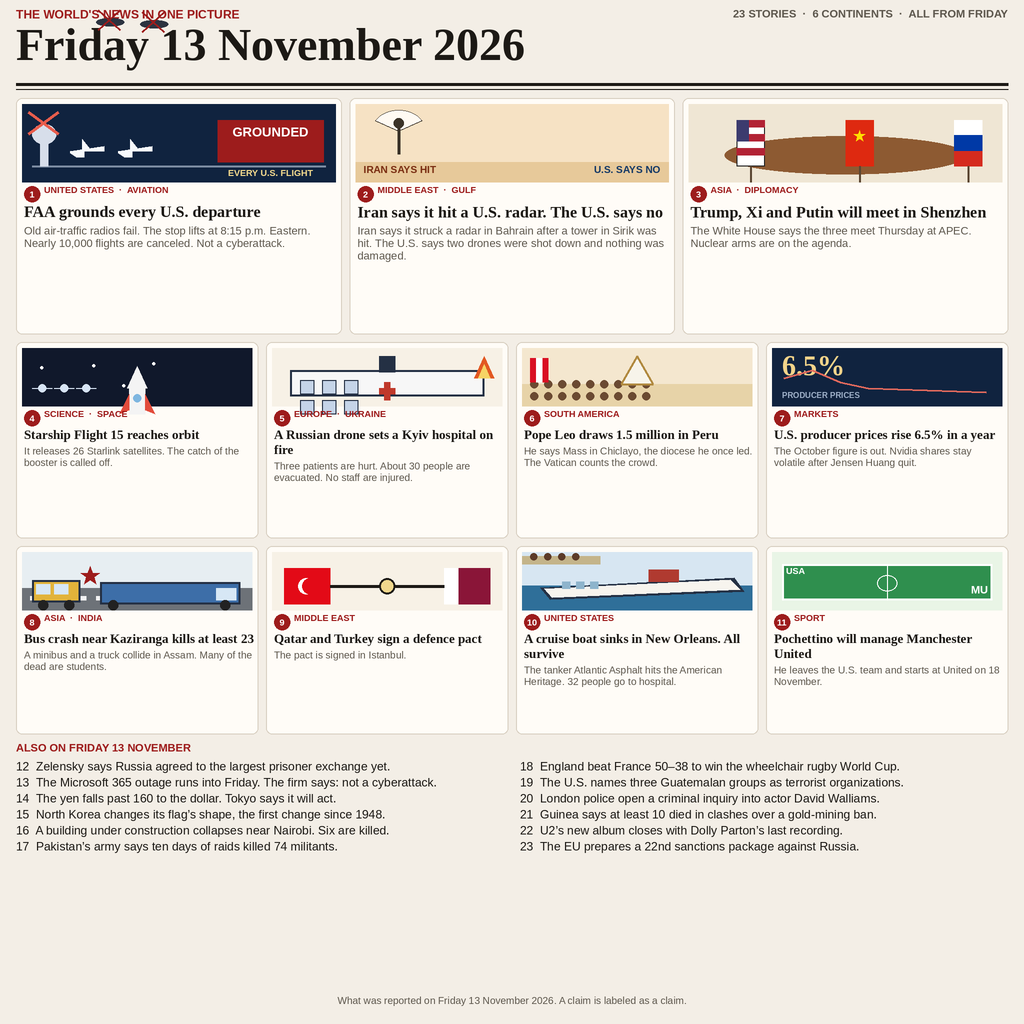
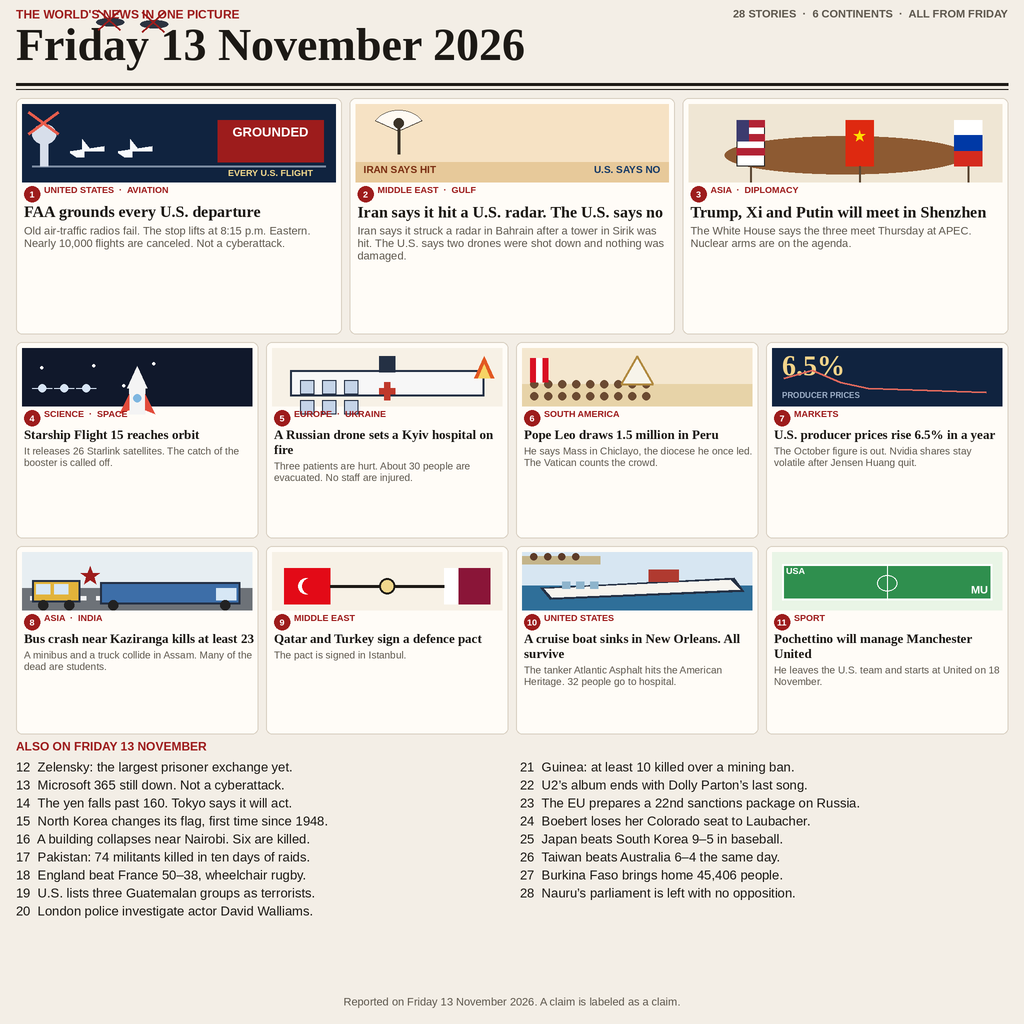
Add five more stories from the same Friday.
Boebert's defeat, the Tokyo baseball scores, Burkina Faso's returns and Nauru's parliament were reported that day.

Changed region(s): [[0.0, 0.7188, 0.4062, 0.9062], [0.5, 0.7188, 0.875, 0.875], [0.3438, 0.9688, 0.6562, 1.0]]

diff --git a/main.py b/main.py
@@ -1,8 +1,9 @@
-# The day's news, copied onto the page the judge opens.
+# Twenty-eight stories from Friday 13 November 2026, copied for the judge.
 import os
 import shutil
 from pathlib import Path
 
 folder = Path(os.environ.get("MAKEFUN_OUTPUT_DIR", "/output"))
 folder.mkdir(parents=True, exist_ok=True)
+# One file, two graded runs, the same bytes.
 shutil.copyfile(Path(__file__).resolve().parent / "entry.png", folder / "entry.png")
